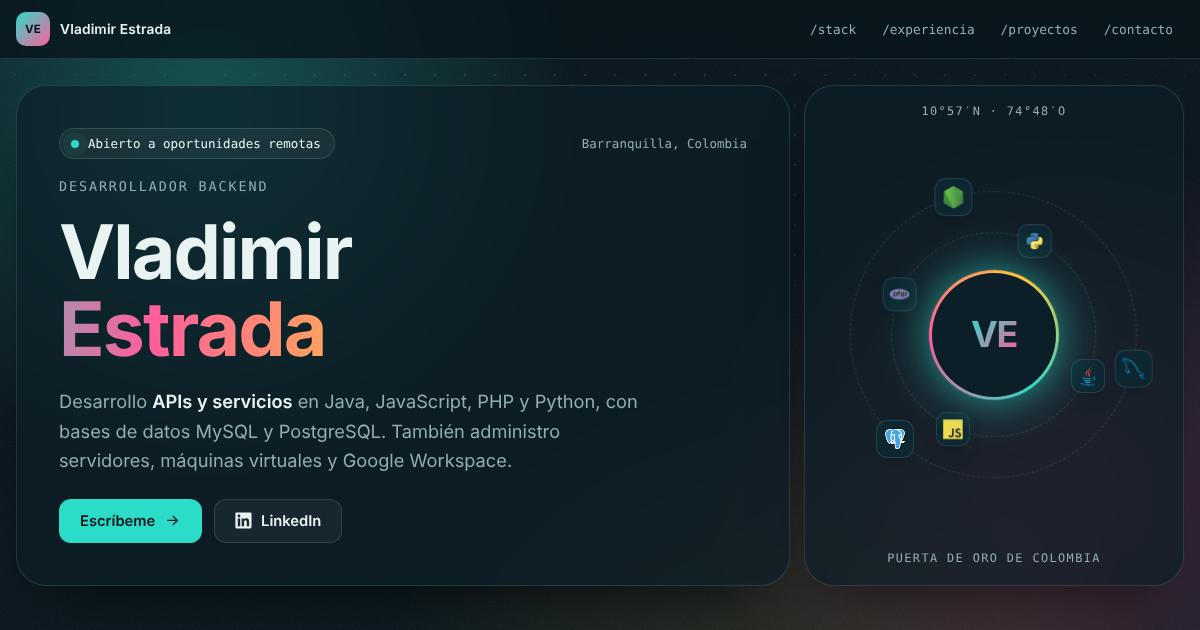
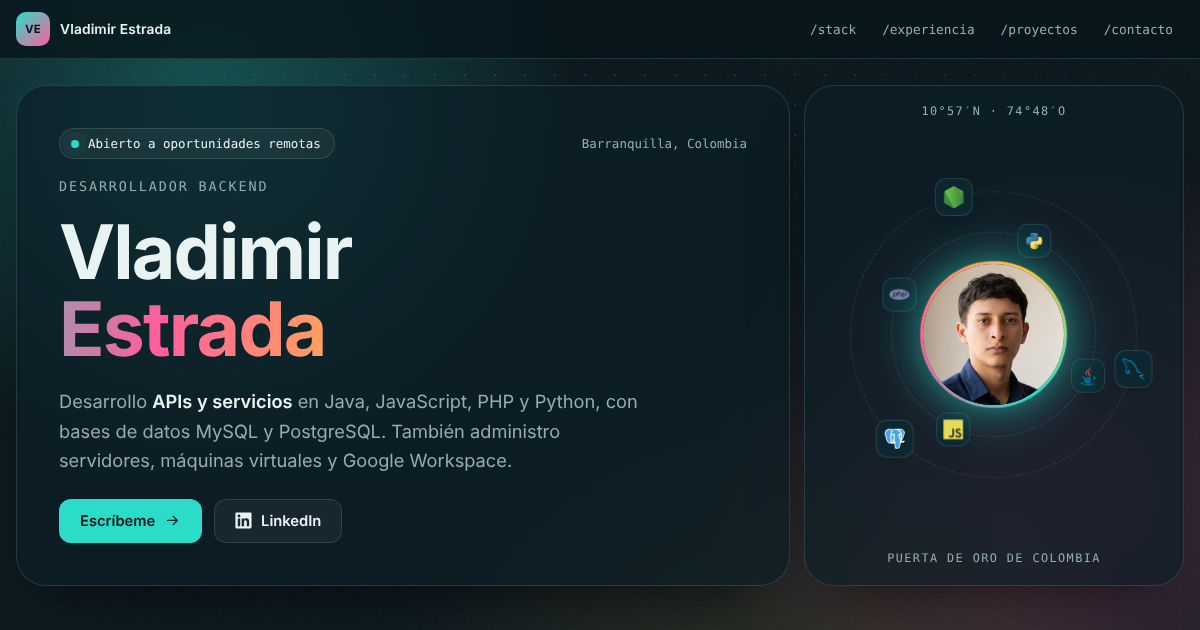
Agrega la foto de perfil y actualiza la vista previa
Claude-Session: https://claude.ai/code/session_01BnPXsQyQVPBs5dr8E44652

Changed region(s): [[0.74, 0.3921, 0.8942, 0.6635]]

diff --git a/index.html b/index.html
@@ -180,7 +180,7 @@ h1{font:700 clamp(2.4rem,8.6vw,4.7rem)/1.02 var(--display);letter-spacing:-.025e
 .sat-in .ic{width:62%;height:62%}
 @keyframes spin{to{transform:rotate(360deg)}}
 @keyframes counter{from{transform:rotate(calc(var(--a) * -1))}to{transform:rotate(calc(var(--a) * -1 - 360deg))}}
-.fw{position:absolute;left:50%;top:50%;width:38cqw;height:38cqw;margin:-19cqw 0 0 -19cqw;border-radius:50%;padding:3px;
+.fw{position:absolute;left:50%;top:50%;width:43cqw;height:43cqw;margin:-21.5cqw 0 0 -21.5cqw;border-radius:50%;padding:3px;
   background:conic-gradient(from 0deg,var(--a1),var(--a2),var(--a3),var(--a1));animation:spin 9s linear infinite;
   box-shadow:0 0 50px -8px var(--a1)}
 .frame{position:relative;width:100%;height:100%;border-radius:50%;overflow:hidden;display:grid;place-items:center;background:var(--bg-2);animation:spin 9s linear infinite reverse}
@@ -457,7 +457,7 @@ footer{margin-top:44px;padding-top:18px;border-top:1px solid var(--line);display
           <span class="sat" style="--a:180deg"><span class="sat-in" style="--a:180deg;--t:56s"><svg class="ic" aria-hidden="true" focusable="false"><use href="#i-php"/></svg></span></span>
           <span class="sat" style="--a:270deg"><span class="sat-in" style="--a:270deg;--t:56s"><svg class="ic" aria-hidden="true" focusable="false"><use href="#i-python"/></svg></span></span>
         </div>
-        <div class="fw"><div class="frame"><span class="ve">VE</span><img id="foto" alt="Vladimir Estrada" hidden></div></div>
[1 lines of base64/hex data omitted]
       </div>
       <span class="cap">Puerta de Oro de Colombia</span>
     </aside>
